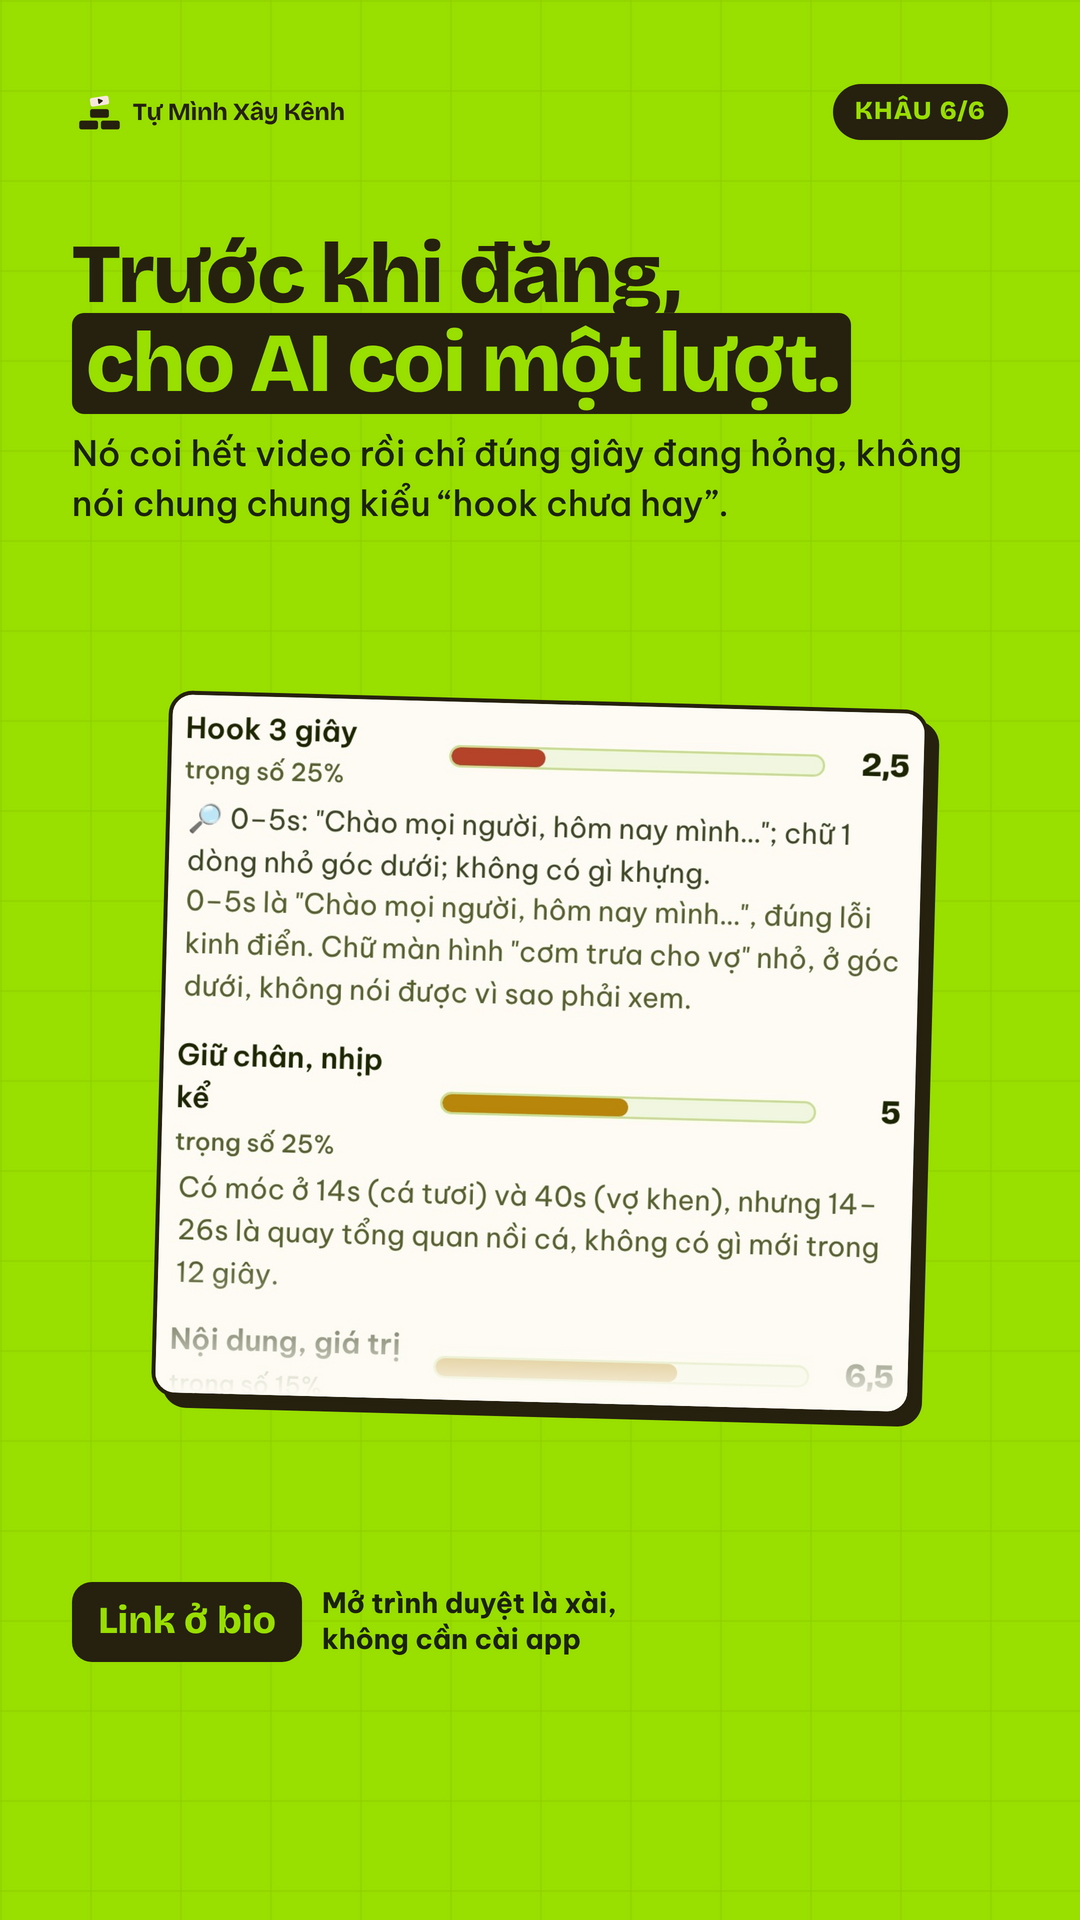
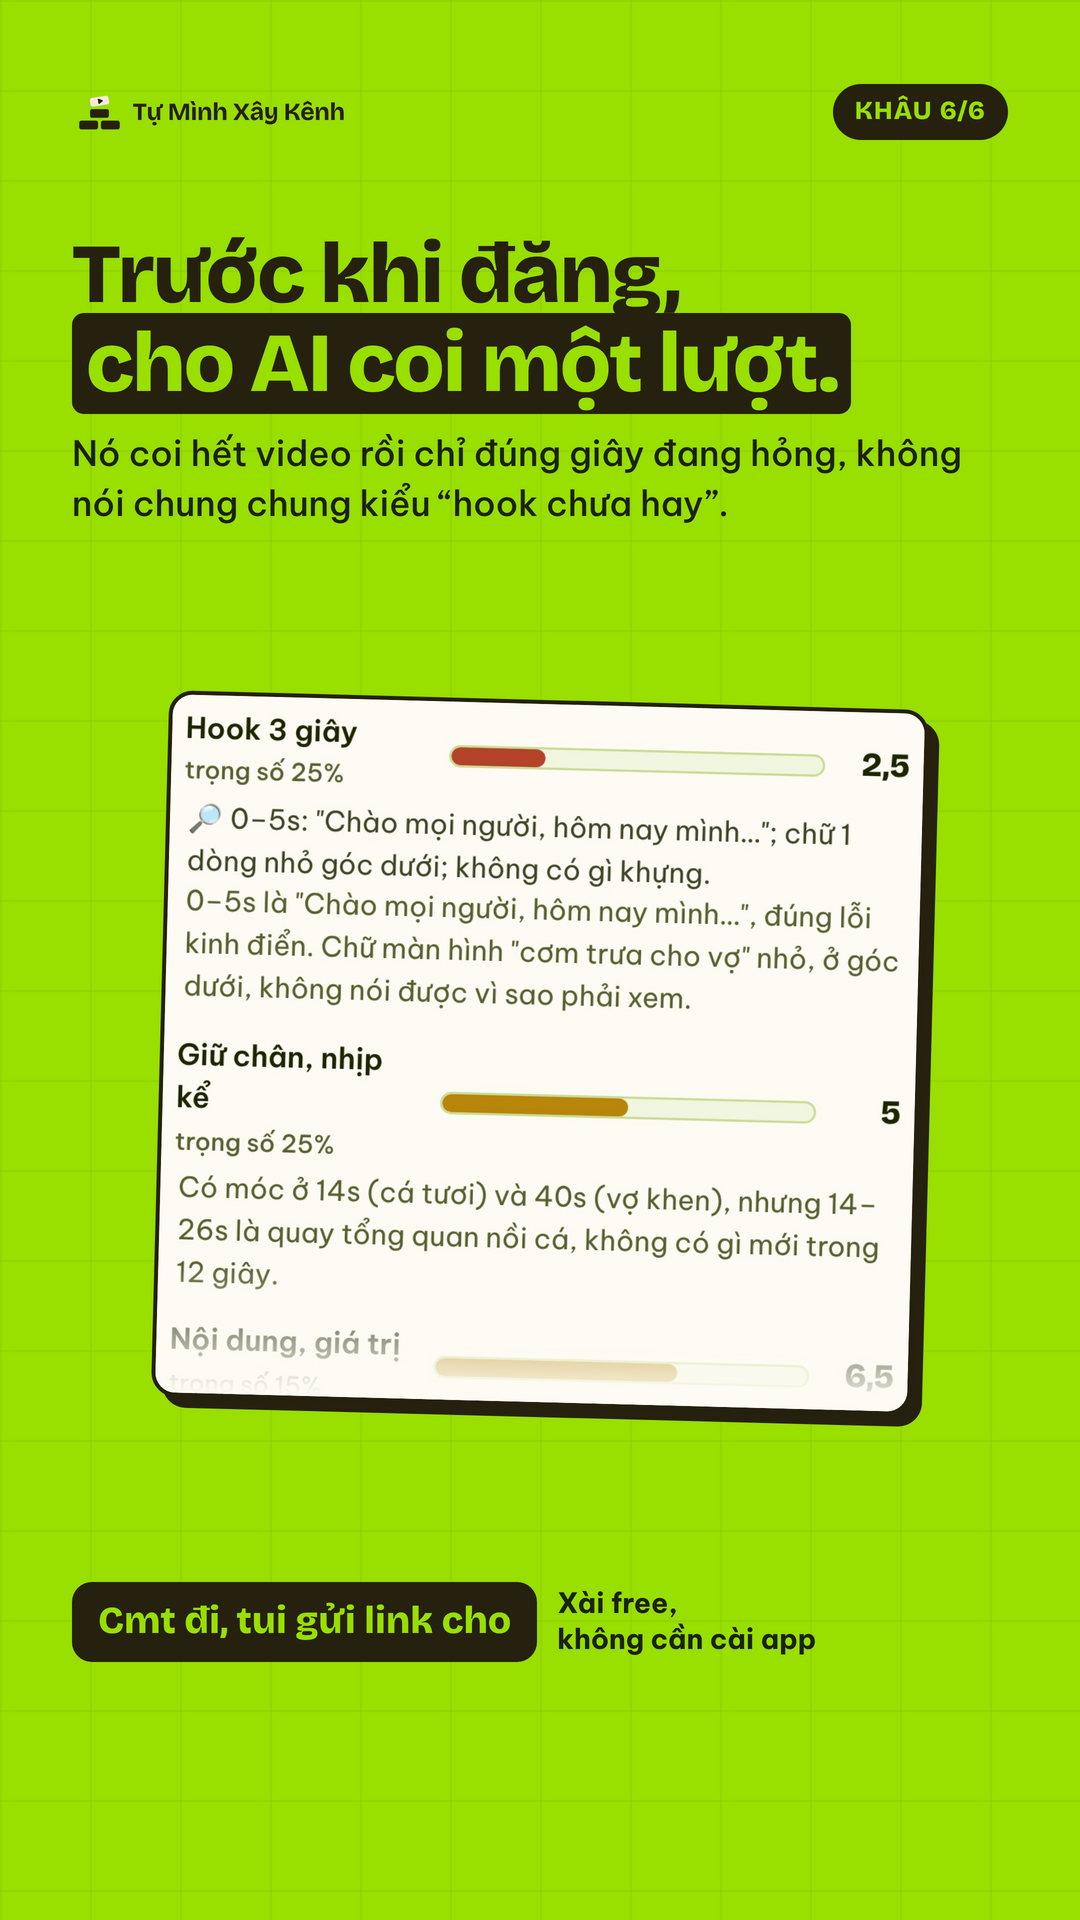
Poster: ảnh cuối đổi sang mời bình luận thay vì link ở bio
Claude-Session: https://claude.ai/code/session_01DLoQkHnYKA1ATrTvxbMQPm

Changed region(s): [[0.1833, 0.8125, 0.7639, 0.875], [0.0917, 0.8125, 0.1528, 0.875]]

diff --git a/poster-fb/poster.html b/poster-fb/poster.html
@@ -774,7 +774,7 @@
     <p>Nó coi hết video rồi chỉ đúng giây đang hỏng, không nói chung chung kiểu “hook chưa hay”.</p>
   </div>
   <div class="manh cat d-anh" style="width:760px;top:700px;height:706px;--r:1.5deg"><img src="anh/cv-7thang.jpg" alt=""></div>
-  <div class="d-cuoi" style="bottom:258px"><b>Link ở bio</b><span>Mở trình duyệt là xài,<br>không cần cài app</span></div>
+  <div class="d-cuoi" style="bottom:258px"><b>Cmt đi, tui gửi link cho</b><span>Xài free,<br>không cần cài app</span></div>
 </section>
 
 <!-- ═══════════ BỘ 4:5 · 7 TẤM GIỚI THIỆU 6 TOOL ═══════════
@@ -832,7 +832,7 @@
   <div class="n-ten"><b>6</b><em>Chấm video</em></div>
   <div class="n-chu"><h1>Đăng thì đăng, nhưng<br><mark>cho AI coi trước đã.</mark></h1><p>Nó coi hết video rồi chỉ đúng giây đang hỏng, không nói chung chung kiểu “hook chưa hay”.</p></div>
   <div class="manh cat n-anh" style="width:700px;top:556px;height:600px;--r:1.5deg"><img src="anh/cv-7thang.jpg" alt=""></div>
-  <div class="n-cuoi"><b>Link ở bio</b><span>Mở trình duyệt là xài,<br>không cần cài app</span></div>
+  <div class="n-cuoi"><b>Cmt đi, tui gửi link cho</b><span>Xài free,<br>không cần cài app</span></div>
 </section>
 
 </body>
